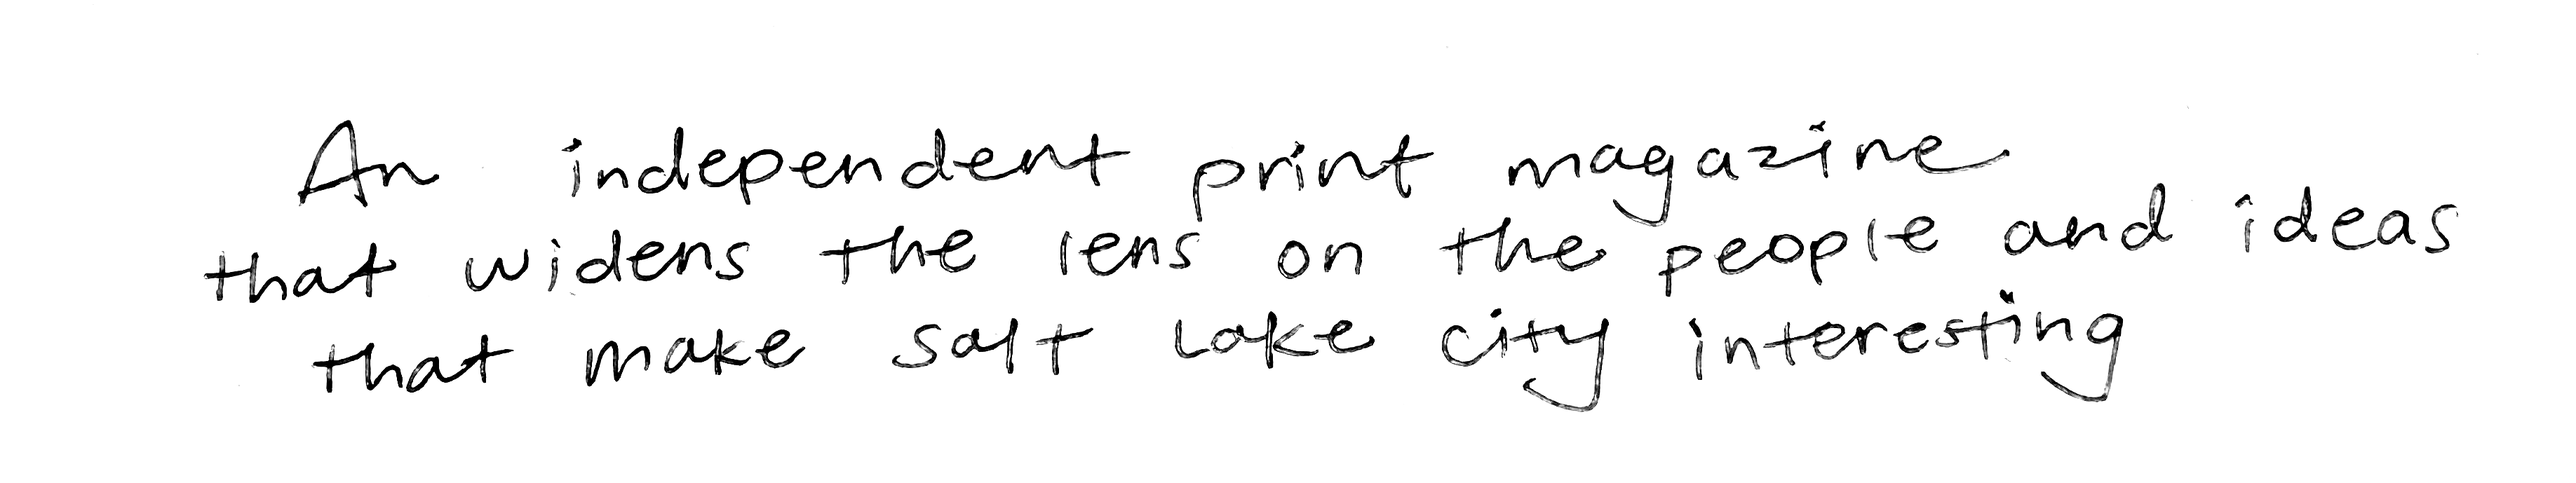
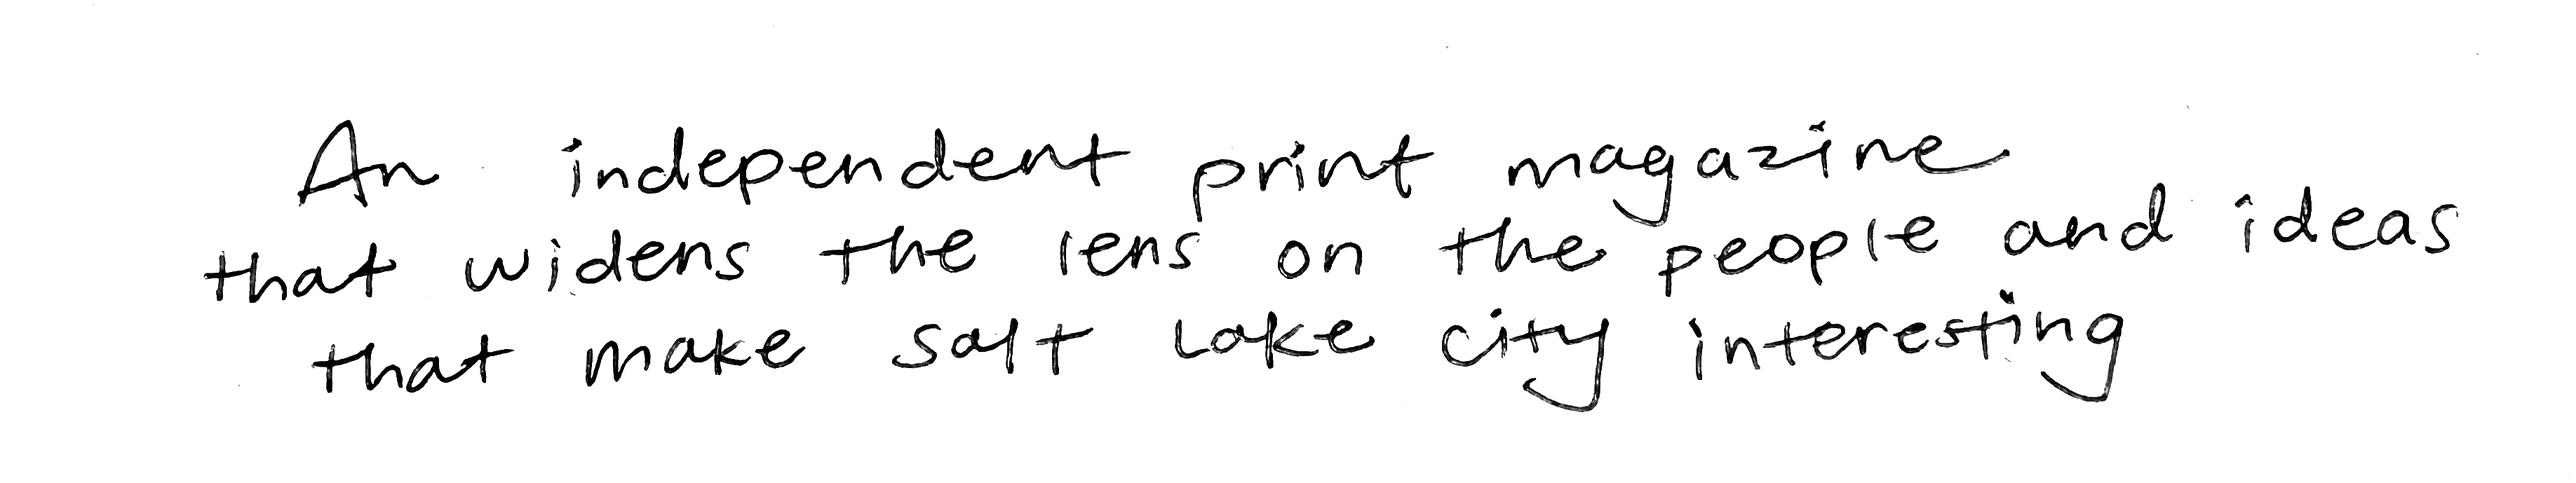
Bigger handwritten elements, square/stacked photo collage
- Tagline width bumped from 520px to 800px max, close to the logo's
  880px, and its ink alpha reprocessed for higher contrast so it
  matches the button labels' darkness (they were both already using
  the same ink CSS color, but the tagline's strokes were less opaque
  on average, reading visibly lighter).
- Button labels sized responsively via clamp(48px,7vw,88px) instead of
  a fixed 50px, so they scale up meaningfully on desktop.
- All 8 collage photos are now square crops instead of mixed aspect
  ratios, sized larger, with two of them arranged as offset stacked
  pairs (missionaries+truck top-left, hotdog+crowd bottom-left)
  instead of scattered solo.

diff --git a/index.html b/index.html
@@ -63,46 +63,51 @@ body[data-bg] .tagline-handwritten{background-color:#fff;}
 body[data-bg="gallery"] .wordmark,body[data-bg="pole"] .wordmark{background-color:var(--ink);}
 body[data-bg="gallery"] .tagline-handwritten,body[data-bg="pole"] .tagline-handwritten{background-color:var(--ink);}
 
-.tagline-handwritten{width:min(80vw,520px);aspect-ratio:3673/689;margin:clamp(20px,3.5vh,32px) auto 0;
+.tagline-handwritten{width:min(86vw,800px);aspect-ratio:3673/689;margin:clamp(20px,3.5vh,32px) auto 0;
   background-color:var(--ink);transition:background-color .35s ease;
   -webkit-mask:url("assets/tagline-handwritten.png") center/contain no-repeat;
   mask:url("assets/tagline-handwritten.png") center/contain no-repeat;}
 
 .triggers button.go{background:none;padding:6px;}
 .triggers button.go:hover{opacity:.75;}
-.btn-handwritten{display:block;height:50px;background-color:var(--ink);transition:background-color .35s ease;}
-#triggerStory .btn-handwritten{width:calc(50px * 1250 / 310);
+.btn-handwritten{display:block;--btn-h:clamp(48px,7vw,88px);height:var(--btn-h);background-color:var(--ink);transition:background-color .35s ease;}
+#triggerStory .btn-handwritten{width:calc(var(--btn-h) * 1250 / 310);
   -webkit-mask:url("assets/btn-handwritten-share.png") center/contain no-repeat;
   mask:url("assets/btn-handwritten-share.png") center/contain no-repeat;}
-#triggerCover .btn-handwritten{width:calc(50px * 1762 / 330);
+#triggerCover .btn-handwritten{width:calc(var(--btn-h) * 1762 / 330);
   -webkit-mask:url("assets/btn-handwritten-capture.png") center/contain no-repeat;
   mask:url("assets/btn-handwritten-capture.png") center/contain no-repeat;}
 body[data-bg] .btn-handwritten{background-color:#fff;}
 body[data-bg="gallery"] .btn-handwritten,body[data-bg="pole"] .btn-handwritten{background-color:var(--ink);}
 
-/* floating photo collage, moodboard-style — only shown when no single ?bg=NAME photo is picked */
+/* floating photo collage, moodboard-style — only shown when no single ?bg=NAME photo is picked.
+   All photos are square crops; missionaries+truck and hotdog+crowd are
+   stacked pairs (later in DOM order = drawn on top of its partner). */
 .float-collage{position:absolute;inset:0;z-index:1;overflow:hidden;pointer-events:none;}
 body[data-bg] .float-collage{display:none;}
-.float-photo{position:absolute;object-fit:cover;box-shadow:0 14px 28px rgba(23,20,13,.28);background:#000;}
-/* corners */
-.float-1{top:5%;left:2%;width:min(19vw,220px);aspect-ratio:4/5;transform:rotate(-7deg);}
-.float-2{top:3%;right:3%;width:min(15vw,180px);aspect-ratio:1/1;transform:rotate(5deg);}
-.float-5{bottom:4%;left:10%;width:min(12vw,140px);aspect-ratio:1/1;transform:rotate(8deg);}
+.float-photo{position:absolute;object-fit:cover;aspect-ratio:1/1;box-shadow:0 16px 32px rgba(23,20,13,.3);background:#000;}
+/* stack A: missionaries behind, truck in front, top-left */
+.float-1{top:3%;left:1%;width:min(25vw,280px);transform:rotate(-7deg);}
+.float-2{top:14%;left:10%;width:min(17vw,195px);transform:rotate(6deg);}
+/* solo, top-right */
+.float-7{top:2%;right:2%;width:min(20vw,225px);transform:rotate(5deg);}
 /* tucked behind/around the wordmark band */
-.float-3{top:34%;left:0%;width:min(15vw,170px);aspect-ratio:3/4;transform:rotate(6deg);z-index:0;}
-.float-4{top:38%;right:1%;width:min(17vw,195px);aspect-ratio:5/4;transform:rotate(-5deg);z-index:0;}
-.float-6{top:1%;left:38%;width:min(10vw,115px);aspect-ratio:4/5;transform:rotate(-3deg);z-index:0;}
-.float-7{top:26%;right:16%;width:min(12vw,135px);aspect-ratio:1/1;transform:rotate(4deg);z-index:0;}
-.float-8{top:52%;left:7%;width:min(13vw,145px);aspect-ratio:4/3;transform:rotate(5deg);z-index:0;}
+.float-3{top:30%;left:0%;width:min(19vw,210px);transform:rotate(6deg);z-index:0;}
+.float-4{top:34%;right:1%;width:min(20vw,220px);transform:rotate(-5deg);z-index:0;}
+.float-6{top:1%;left:39%;width:min(11vw,125px);transform:rotate(-3deg);z-index:0;}
+/* stack B: hotdog behind, crowd in front, bottom-left */
+.float-5{bottom:6%;left:1%;width:min(17vw,190px);transform:rotate(7deg);}
+.float-8{bottom:-2%;left:8%;width:min(13vw,145px);transform:rotate(-6deg);}
 @media(max-width:900px){
   .float-collage{opacity:.9;}
-  .float-1{width:30vw;top:3%;left:2%;}
-  .float-2{width:26vw;top:3%;right:2%;}
-  .float-3{width:22vw;top:40%;left:0;}
-  .float-4{width:24vw;top:44%;right:0;}
+  .float-1{width:38vw;top:1%;left:0;}
+  .float-2{width:26vw;top:16%;left:13%;}
+  .float-7{width:32vw;top:1%;right:1%;}
+  .float-3{width:26vw;top:38%;left:0;}
+  .float-4{width:28vw;top:42%;right:0;}
   .float-6{display:none;}
-  .float-7{display:none;}
-  .float-8{width:20vw;top:57%;left:3%;}
+  .float-5{width:28vw;bottom:15%;left:4%;}
+  .float-8{width:20vw;bottom:4%;left:16%;}
 }
 
 .kicker{font-weight:600;font-size:clamp(.74rem,1.4vw,.88rem);letter-spacing:.24em;text-transform:uppercase;
